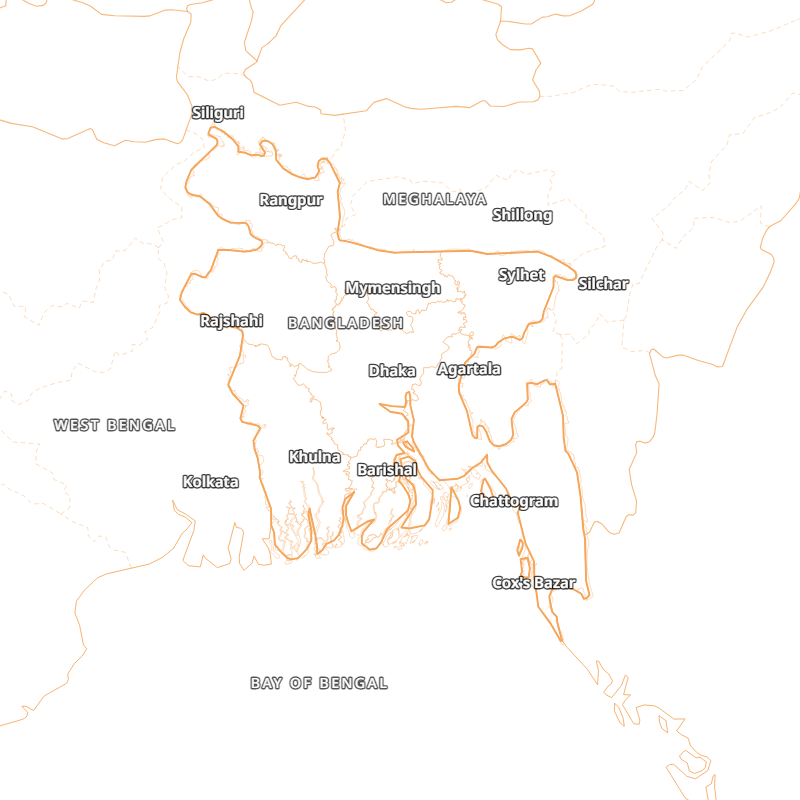
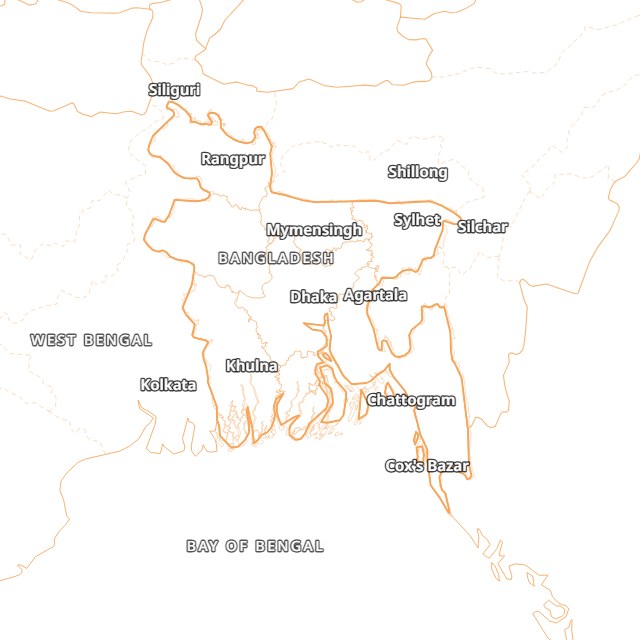
Size the frames by measurement, and encode 4:2:0
The delivery budget was being missed by 20-60 percent. Three measurements
settled it.

First, an idea that turned out to be wrong: publish small and let the
device upscale. It does not work here, and the reason is worth recording
- the overlay labels are drawn at absolute pixel sizes, so they cannot
shrink with the frame and stay readable. The overlay pins the resolution,
not the sensor. Requesting a quarter of the pixels and upscaling saved
only 14 KB while discarding real detail.

Second, chroma subsampling is free. Satellite imagery is almost all
luminance detail; a 3x magnified check of the busiest area showed the
thin amber lines and Bengali labels survive 4:2:0 indistinguishably, for
a quarter fewer bytes. Quality 78 is the floor before artefacts show.

Third, both views were simply asking for too many pixels. The sensor
resolves about 4.5 km here, so the old sizes oversampled 1.9x and 3.9x -
paying to encode upscaling artefacts. Wide is now 700x630 and close-up
640x640, still oversampled 1.5x and 3.1x, so no real detail is lost.

Live frames now: day 85-103 KB, night 77-99 KB, from 117-160 KB.

Tests assert the reasoning rather than just the numbers - neither view may
oversample past the sensor nor undersample it, and a cloud-like frame with
the real overlay must encode inside budget. Per-pixel noise was rejected
as the proxy: it is JPEG worst case and would have forced a misleading
threshold.

diff --git a/tests/test_budget.py b/tests/test_budget.py
@@ -1,0 +1,72 @@
+"""Guards on the delivery budget and the resolution reasoning behind it.
+
+These are the promises to a user on a 2G connection. Frame sizes were measured
+rather than guessed (§ 8.9), and it would be easy for a later tweak to quietly
+undo that — so the reasoning is asserted, not just written down.
+"""
+
+import io
+
+from PIL import Image
+
+import render
+from iodc import overlays
+from iodc.views import CLOSE, WIDE
+
+# What the satellite actually resolves over Bangladesh: 3 km at nadir, degraded
+# by the ~45 degree viewing angle from 45.5E.
+SENSOR_KM = 4.5
+
+# A frame a user waits for on a slow connection.
+BUDGET_KB = 110
+
+
+def km_per_px(view) -> float:
+    import math
+    mid_lat = (view.bbox.min_lat + view.bbox.max_lat) / 2
+    return (view.bbox.lon_span * 111.32 * math.cos(math.radians(mid_lat))) / view.width
+
+
+def test_neither_view_asks_for_finer_detail_than_the_sensor_provides():
+    """Requesting beyond the sensor only encodes upscaling artefacts."""
+    for view in (WIDE, CLOSE):
+        assert km_per_px(view) < SENSOR_KM, view.key
+
+
+def test_no_view_undersamples_the_sensor():
+    """The other edge: dropping below the sensor's resolution would throw away
+    detail that genuinely exists."""
+    for view in (WIDE, CLOSE):
+        assert km_per_px(view) > SENSOR_KM / 6, view.key
+
+
+def test_a_composited_frame_stays_inside_the_delivery_budget():
+    """Encodes a cloud-like frame with the real overlay on top.
+
+    Per-pixel random noise is not a fair stand-in: it is the pathological worst
+    case for JPEG and costs far more than any real image. Blurring it produces
+    the soft, blotchy structure satellite imagery actually has, which is what
+    the budget was measured against (live frames: 85-103 KB).
+    """
+    import random
+
+    from PIL import ImageFilter
+
+    for view in (WIDE, CLOSE):
+        rnd = random.Random(5)
+        base = Image.new("RGB", view.size)
+        base.putdata([(rnd.randrange(40, 220),) * 3
+                      for _ in range(view.width * view.height)])
+        base = base.filter(ImageFilter.GaussianBlur(2.2))
+        overlay = overlays.load(view, "bn", night=False)
+        base.paste(overlay, (0, 0), overlay)
+        buf = io.BytesIO()
+        base.save(buf, "JPEG", quality=render.JPEG_QUALITY,
+                  subsampling=render.JPEG_SUBSAMPLING, optimize=True)
+        kb = buf.getbuffer().nbytes // 1024
+        assert kb <= BUDGET_KB, f"{view.key} encodes to {kb} KB"
+
+
+def test_encoder_settings_are_the_measured_ones():
+    assert render.JPEG_SUBSAMPLING == 2      # 4:2:0
+    assert 74 <= render.JPEG_QUALITY <= 82

diff --git a/iodc/views.py b/iodc/views.py
@@ -49,23 +49,34 @@ class View:
         return abs(pixel - geo) / geo
 
 
+# Frame sizes were measured, not guessed (§ 8.9). The satellite resolves ~4.5 km
+# over Bangladesh, so both views still request more pixels than exist — asking
+# for even more only encodes upscaling artefacts at 2G users' expense.
+#
+# What pins the floor is not the sensor but the OVERLAY: its labels are drawn at
+# absolute pixel sizes, so they cannot be shrunk with the frame and still be
+# read. That is why "publish small and let the device upscale" does not work
+# here — the text would blur.
+
 # Wide regional: the "what's coming" view — Bay of Bengal up through eastern
 # India, Nepal's edge and the Myanmar coast. Deliberately not clipped to any
 # country: cyclones form deep in the Bay days before landfall.
+# 700×630 ⇒ ~3.0 km/px, 1.5× the sensor. ~102 KB day / 87 KB night.
 WIDE = View(
     key="wide",
     bbox=BBox(min_lat=10, min_lon=80, max_lat=28, max_lon=100),
-    width=889,
-    height=800,
+    width=700,
+    height=630,
 )
 
 # Close-up: the "what's over us now" view — the delta plus roughly 150–230 km
-# of margin on every side, at the sensor's native resolution.
+# of margin on every side.
+# 640×640 ⇒ ~1.44 km/px, still 3.1× the sensor. ~85 KB day / 72 KB night.
 CLOSE = View(
     key="close",
     bbox=BBox(min_lat=19, min_lon=86, max_lat=28, max_lon=95),
-    width=800,
-    height=800,
+    width=640,
+    height=640,
 )
 
 VIEWS = {v.key: v for v in (WIDE, CLOSE)}

diff --git a/render.py b/render.py
@@ -32,7 +32,13 @@ from iodc.fetch import fetch_frame
 from iodc.views import VIEWS
 
 OUT_DIR = os.environ.get("RENDER_OUT", "out")
-JPEG_QUALITY = int(os.environ.get("JPEG_QUALITY", "82"))
+
+# Measured at S4 (§ 8.9). Subsampling is the free part: satellite imagery is
+# almost all luminance detail, and a 3× magnified check showed the overlay's
+# thin amber lines and Bengali labels survive 4:2:0 indistinguishably — for a
+# quarter fewer bytes. Quality 78 is the floor before artefacts become visible.
+JPEG_QUALITY = int(os.environ.get("JPEG_QUALITY", "78"))
+JPEG_SUBSAMPLING = int(os.environ.get("JPEG_SUBSAMPLING", "2"))   # 2 = 4:2:0
 
 log = logging.getLogger("render")
 
@@ -104,7 +110,8 @@ def main() -> int:
         for lang, payload in langs.items():
             name = f"{view_key}-{lang}.jpg"
             path = os.path.join(OUT_DIR, name)
-            payload["image"].save(path, "JPEG", quality=JPEG_QUALITY, optimize=True)
+            payload["image"].save(path, "JPEG", quality=JPEG_QUALITY,
+                                  subsampling=JPEG_SUBSAMPLING, optimize=True)
             log.info("  %-14s %3d KB  %s  captured %s", name,
                      os.path.getsize(path) // 1024, payload["layer"],
                      wms.format_iso(payload["captured_at"]))

diff --git a/tests/test_wms.py b/tests/test_wms.py
@@ -125,7 +125,8 @@ def test_getmap_url_pins_time_and_uses_lat_first_bbox():
     # WMS 1.3.0 + EPSG:4326 => minLat,minLon,maxLat,maxLon
     assert "bbox=10,80,28,100" in url
     assert "TIME=2026-08-08T17:30:00Z" in url
-    assert "width=889&height=800" in url
+    # Derived from the view, so tuning frame sizes cannot break this test.
+    assert f"width={WIDE.width}&height={WIDE.height}" in url
     assert "crs=EPSG:4326" in url
 
 
